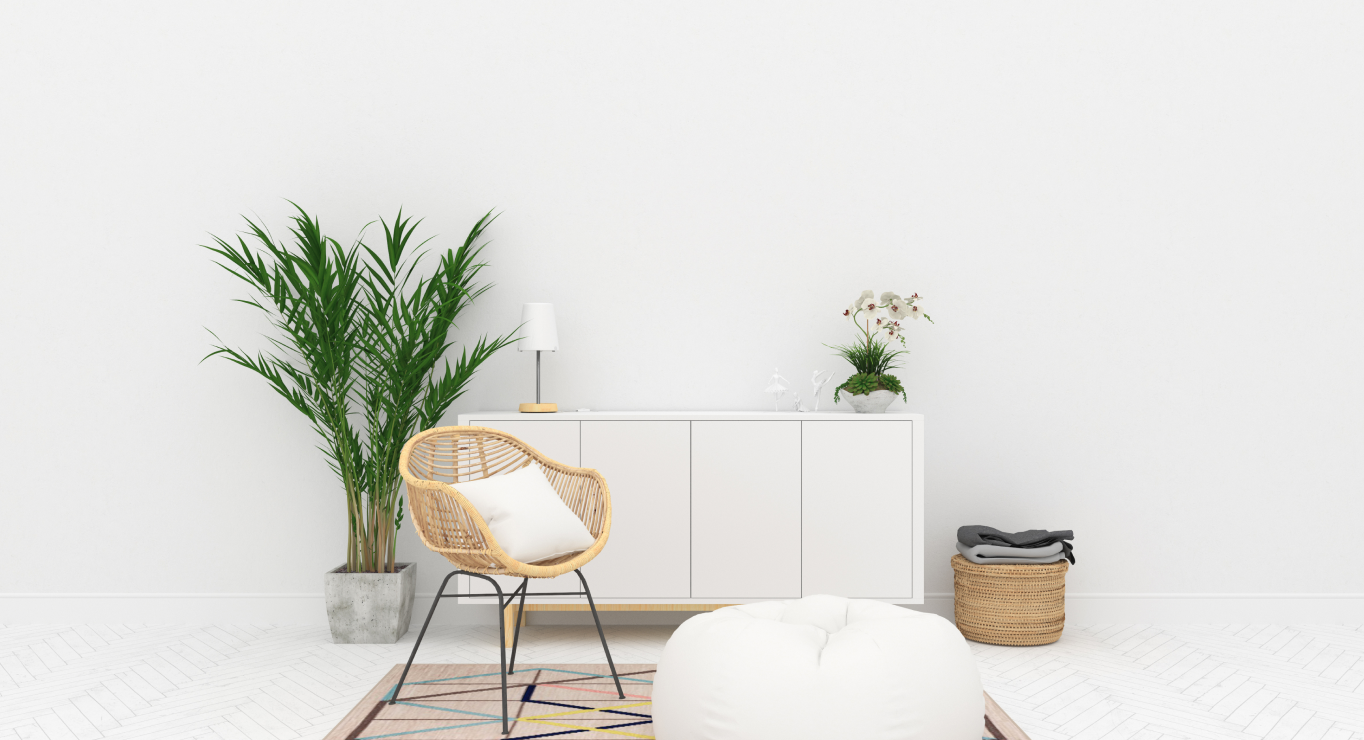
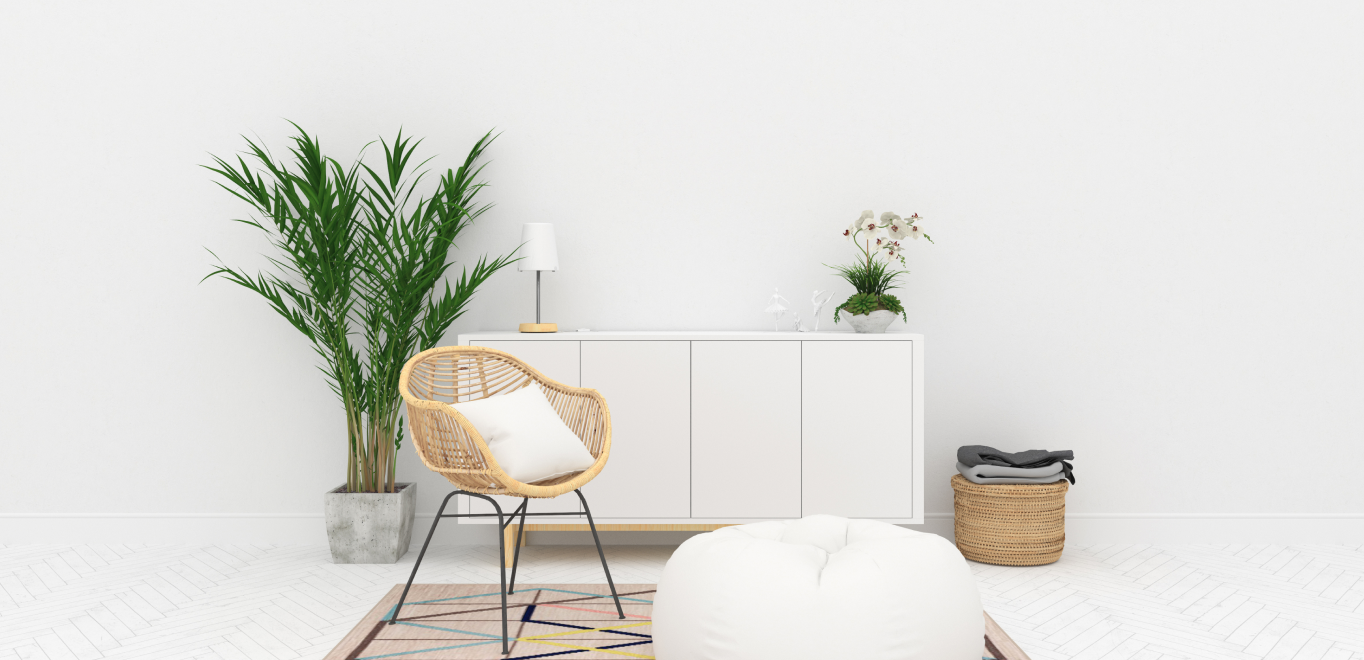
content

diff --git a/home.html b/home.html
@@ -17,9 +17,9 @@
 
 <body>
     <nav class="navbar navbar-expand-lg bg-light">
-        <div class="container-fluid px-2 py-2">
-            <a class="navbar-brand ps-5" href="#"><img src="images/Logo.png" alt="Furnio"></a>
-            <button class="navbar-toggler" type="button" data-bs-toggle="collapse" data-bs-target="#navbarText"
+        <div class="container-fluid px-lg-2 py-lg-2">
+            <a class="navbar-brand ps-lg-5 ps-md-5" href="#"><img src="images/Logo.png" class="img-fluid" alt="Furnio"></a>
+            <button class="navbar-toggler me-lg-5" type="button" data-bs-toggle="collapse" data-bs-target="#navbarText"
                 aria-controls="navbarText" aria-expanded="false" aria-label="Toggle navigation">
                 <span class="navbar-toggler-icon"></span>
             </button>
@@ -89,35 +89,35 @@
     </nav>
     <main>
         <section>
-            <div class="container-fluid">
-                <div class="card">
-                    <img src="images/Home_Hero_Background.png" class="card-img" alt="img">
-                    <!-- <div class="card-img-overlay mx-auto me-5 mt-5 d-flex align-items-center"
-                        style="background-color: #FFF3E3;">
-                        <div class="row g-2 d-flex justify-content-center">
-                            <div class="col-md-10">
-                                <div class="card-body">
-                                    <p class="card-title fw-semibold">New Arrival</p>
-                                    <h1 class="card-title fw-bold" style="color: #B88E2F;">Discover Our <br> New
-                                        Collection</h1>
-                                    <p class="card-text">Lorem ipsum dolor sit amet, consectetur adipiscing elit. Ut
-                                        elit tellus, luctus nec ullamcorper mattis.</p>
-                                    <button type="button" class="border border-0 px-5 p-4 text-light fw-bold"
-                                        style="background-color: #B88E2F;">BUY NOW</button>
+                <div class="card round-0 border border-0">
+                    <img src="images/Home_Hero_Background.png" class="img-fluid" alt="img">
+                   
+                        <div class="card_img d-flex align-items-center" style="background-color: #FFF3E3;">
+                            <div class="card-body">
+                                <div class="card-subtitle">
+                                    <h6 class="fw-semibold card-subtitle">New Arrival</h6>
+                                </div>
+                                <div class="card-title pt-1">
+                                    <h1 class="fw-bold title">Discover Our <br> New Collection</h1>
+                                </div>
+                                <div class="card-text">
+                                    <p class="text">Lorem ipsum dolor sit amet, consectetur adipiscing elit. Ut elit tellus, luctus nec ullamcorper mattis.</p>
+                                </div>
+                                <div class="d-flex">
+                                    <a class="bg text-light fw-bold" href="/">BUY NOW</a>
                                 </div>
                             </div>
-                        </div>
-                    </div> -->
-
+                        
+                    </div>
                 </div>
-            </div>
+            
         </section>
         <section>
-            <div class="container-fluid p-5">
+            <div class="container-fluid p-lg-5 mt-5 mt-lg-0">
 
-                <div class="text-center my-5">
-                    <h1 class="fs-1 fs-4 fw-semibold">Browse The Range</h1>
-                    <p class="text-center">Lorem ipsum dolor sit amet, consectetur adipiscing elit.</p>
+                <div class="text-center my-lg-5">
+                    <h1 class="Heading-1 fw-semibold">Browse The Range</h1>
+                    <p class="text-center text">Lorem ipsum dolor sit amet, consectetur adipiscing elit.</p>
                 </div>
 
                 <div class="row row-cols-1 row-cols-md-3 g-3 g-lg-4 px-5 text-center">

diff --git a/style.css b/style.css
@@ -2,34 +2,127 @@
     font-family: 'Poppins', sans-serif;
 }
 
-:root {
-    --bs-btn-bg: #B88E2F;
-}
-
-.btn-primary {
-    background-color: var(--bs-btn-bg);
-}
-
-.card-img-overlay {
-    height: 443px;
-    width: 643px;
-}
-
-.bg-card-body {
-    background-color: #F4F5F7;
-}
-.my{
+.my {
     margin-top: 0px;
     margin-bottom: 0px;
 }
-.mb{
+
+.mb {
     margin-bottom: -10px;
 }
+
+/* Image Overlay Banner*/
+.card_img {
+    height: 180px;
+    width: 208px;
+}
+
+.card_img {
+    position: absolute;
+    top: 4px;
+    right: 90px;
+    bottom: 0;
+}
+
+.title {
+    color: #B88E2F;
+    font-size: 1rem;
+}
+
+.bg {
+    background-color: #B88E2F;
+    padding: .5rem;
+}
+
+.text-light {
+    text-decoration: none;
+    font-size: .6rem;
+}
+
+.card-subtitle {
+    font-size: .6rem;
+}
+
+.text {
+    font-size: .6rem;
+}
+.Heading-1{
+    font-size: 1.5rem;
+}
+/* Footer */
 .footer {
     margin-top: auto;
     background: #efefef;
 }
 
-@media screen and (min-width:420px) {
 
+@media screen and (min-width:768px) {
+    .card_img {
+        height: 260px;
+        width: 338px;
+    }
+
+    .card_img {
+        position: absolute;
+        top: 5rem;
+        right: 3rem;
+        bottom: 0;
+    }
+
+    .text {
+        font-size: .8rem;
+    }
+
+    .card-subtitle {
+        font-size: .8rem;
+    }
+
+    .title {
+        font-size: 2rem;
+    }
+
+    .text-light {
+        font-size: .8rem;
+    }
+    .Heading-1{
+        font-size: 2rem;
+    }
+}
+
+@media screen and (min-width:1040px) {
+
+    /* Image Overlay Banner*/
+    .card_img {
+        height: 443px;
+        width: 643px;
+    }
+
+    .card_img {
+        top: 10rem;
+        right: 6rem;
+    }
+
+    .title {
+        font-size: 3.25rem;
+    }
+
+    .bg {
+        background-color: #B88E2F;
+        padding: 34px 100px;
+    }
+
+    .text-light {
+        font-size: 1rem;
+    }
+
+    .card-subtitle {
+        font-size: 1rem;
+    }
+
+    .text {
+        font-size: 1rem;
+    }
+    .Heading-1{
+        font-size: 2.5rem;
+    } 
 }

diff --git a/script.js b/script.js
@@ -3,24 +3,27 @@
 
 
 const content = [
-    {
-        src: "images/image1.png",
-        heading: "Syltherine",
-        heading_shadow: "Stylish cafe chair",
-        price: "Rp 2.500.000",
-        price_cross: "Rp 3.500.000",
-        alt:"Img"
-    },
+  {
+    src: "images/image1.png",
+    heading: "Syltherine",
+    heading_shadow: "Stylish cafe chair",
+    price: "Rp 2.500.000",
+    price_cross: "Rp 3.500.000",
+    alt: "Img"
+  },
 ]
 
 const content1 = document.querySelector('.content')
 
 
 const cards = content.map(card => {
-    return `
+  return `
     
                  <div class="col">
                       <div class="card">
+                          <span class="position-absolute top-0 end-0 text-light py-3 px-2 mt-4 me-4 rounded-circle bg-danger">
+                            -30%
+                          </span>
                         <img src=${card.src} class="card-img-top" alt=${card.alt}>
                         <div class="card-body bg-card-body">
                           <h5 class="card-title fw-semibold fs-4">${card.heading}</h5>
